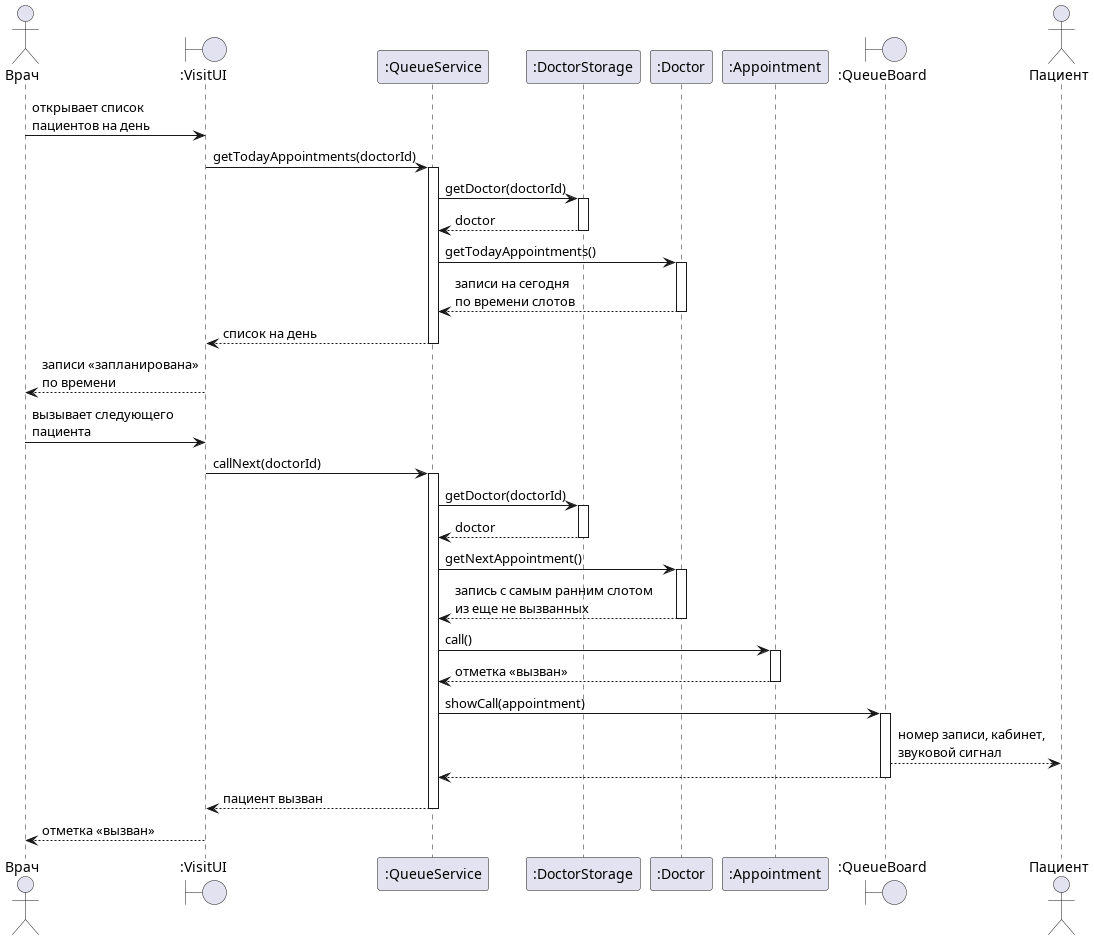
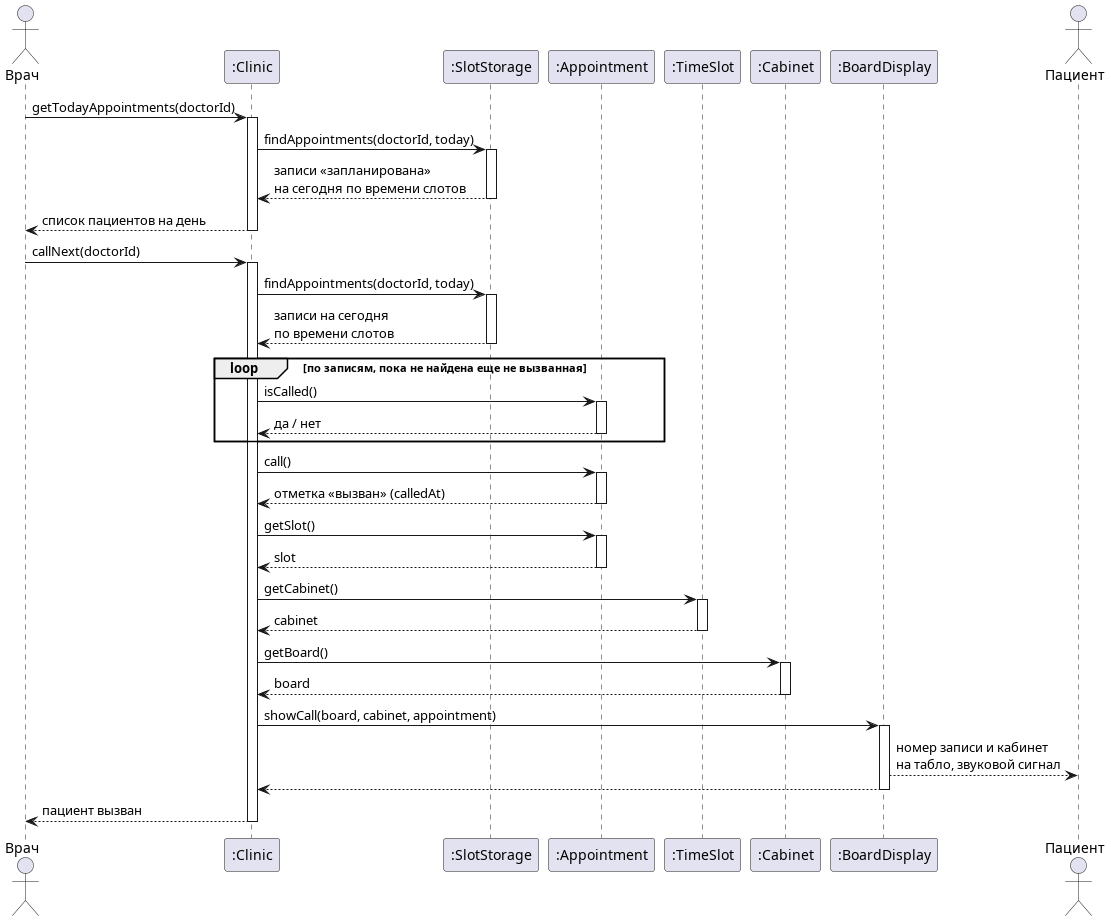
последовательность очереди

diff --git a/Прецеденты/Электронная очередь/Диаграмма последовательности Электронная очередь.md b/Прецеденты/Электронная очередь/Диаграмма последовательности Электронная очередь.md
@@ -1,0 +1,57 @@
+# Диаграмма последовательности «Электронная очередь»
+
+Основной успешный сценарий прецедента [«Электронная очередь»](Электронная%20очередь.md), шаги 1–3. Вызов конкретного пациента, повторный вызов и остальные расширения описаны в тексте прецедента.
+
+Врач вызывает системные операции `:Clinic`. Отдельного класса для очереди нет. Очередь к кабинету это записи врача на сегодня по времени слотов, их находит `:SlotStorage`, а вызов отмечается в самой записи `:Appointment`. Кабинет `:Clinic` узнает у слота, а табло у кабинета: одно табло стоит на группу из 3–4 кабинетов. Вызов на экран табло выводит `:BoardDisplay`.
+
+```plantuml
+@startuml queue-sequence
+actor Врач
+participant ":Clinic" as C
+participant ":SlotStorage" as SS
+participant ":Appointment" as A
+participant ":TimeSlot" as Slot
+participant ":Cabinet" as Cab
+participant ":BoardDisplay" as B
+actor Пациент
+
+Врач -> C ++ : getTodayAppointments(doctorId)
+C -> SS ++ : findAppointments(doctorId, today)
+SS --> C -- : записи «запланирована»\nна сегодня по времени слотов
+C --> Врач -- : список пациентов на день
+
+Врач -> C ++ : callNext(doctorId)
+C -> SS ++ : findAppointments(doctorId, today)
+SS --> C -- : записи на сегодня\nпо времени слотов
+loop по записям, пока не найдена еще не вызванная
+  C -> A ++ : isCalled()
+  A --> C -- : да / нет
+end
+C -> A ++ : call()
+A --> C -- : отметка «вызван» (calledAt)
+C -> A ++ : getSlot()
+A --> C -- : slot
+C -> Slot ++ : getCabinet()
+Slot --> C -- : cabinet
+C -> Cab ++ : getBoard()
+Cab --> C -- : board
+C -> B ++ : showCall(board, cabinet, appointment)
+B --> Пациент : номер записи и кабинет\nна табло, звуковой сигнал
+B --> C --
+C --> Врач -- : пациент вызван
+
+@enduml
+```
+
+Рис. Электронная очередь 1. Диаграмма последовательности основного успешного сценария
+
+Та же диаграмма картинкой, если plantuml не отображается:
+
+![Рис. Электронная очередь 1](../../img/queue-sequence.png)
+
+## Системные операции
+
+| Шаг сценария | Операция | Что делает |
+| --- | --- | --- |
+| 1 | `getTodayAppointments(doctorId)` | Возвращает записи врача на сегодня со статусом «запланирована» в порядке времени слотов |
+| 2–3 | `callNext(doctorId)` | Выбирает запись с самым ранним слотом из еще не вызванных, отмечает ее как вызванную и показывает номер записи и кабинет на табло группы кабинетов |
